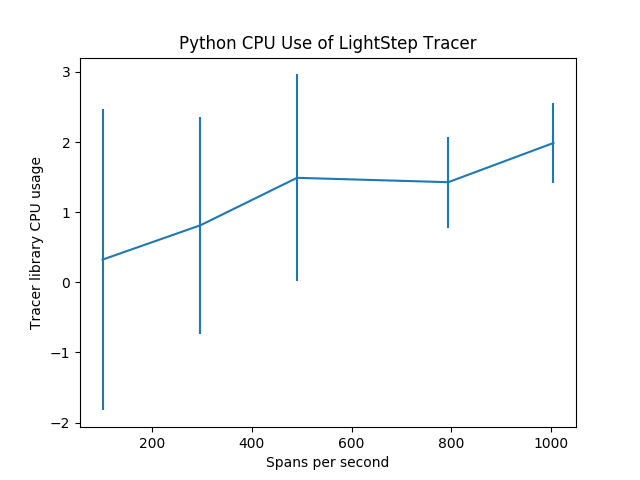
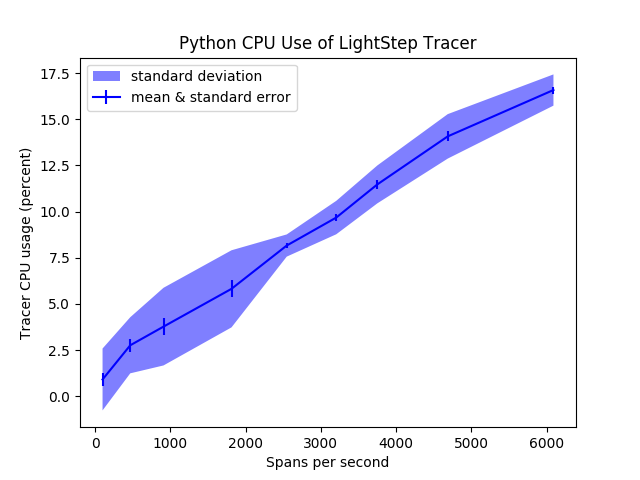
add documentation; improve analysis

diff --git a/README.md b/README.md
@@ -1,162 +1,49 @@
-# CI
+# LightStep Benchmarks
 
-lightstep-benchmarks tests the [python tracer](https://github.com/lightstep/lightstep-tracer-python) and [python cpp tracer](https://github.com/lightstep/lightstep-tracer-cpp) in two ways:
+Time for a brief overview of the system. The test suite is made up of three distinct parts. The **mock satellites** simulate real LightStep satellites under different conditions, a separate **client** is written to test each LightStep Tracer, and the **controller** orchestrates the tests.
 
-1. Regression tests are run automatically each time code is pushed.
-2. Performance graphs can generated if you manually approve the jobs to run in CircleCI. More info on that [here](https://circleci.com/docs/2.0/workflows/#holding-a-workflow-for-a-manual-approval).
+## Setup
 
-## Performance Graphs
+This setup has only been tested on OS X and Linux (Ubuntu).
 
-Performance graphs are fairly expensive to generate, and don't have a simple pass / fail mechanism. For these reasons they aren't generated each time code is pushed automatically. They are only generated when the job "approve_make_graphs" is manually approved in CircleCI.
+- `git clone https://github.com/lightstep/lightstep-benchmarks.git`
+- Install Python 3.7 or higher and pip
 
-TODO: more info on the specific graphs which can be generated here
+Now, from the lightstep-benchmarks directory:
 
-## Regression Tests
+- Install development dependencies: `python3 -m pip install -r requirements-dev.txt`
+- Install [Google Protobuf](https://github.com/protocolbuffers/protobuf/releases)
+- Generate Python Protobuf files from .proto files: `./scripts/generate_proto.sh`
 
-Regression tests are automatically run on the python and python cpp tracers each time code is pushed. The tests check the following:
+## Getting Started
 
-- Running a tracer for 100s (emitting 500 spans per second) shouldn't use more than twice as much memory as running a tracer for 5s.
-- The tracer shouldn't drop any spans if we're just sending 300 spans per second.
-- A test program which generates 500 spans per second is calibrated to run at 70% CPU using a NoOp tracer. The same program shouldn't exceed 80% cpu usage when a LightStep tracer is used.
-- The LightStep tracer should be able to send 3000 spans per second before the tracer (not the whole program) consumes 10% CPU.
+Let's begin by benchmarking the LightStep Python Tracer, since you already have Python installed. We won't worry about setting up mock satellites for the Tracer to send spans to yet. First, make sure you don't have any programs bound to ports 8023 or 8360-8367.
 
-You can also run the regression tests manually from the command-line. First, make sure that you have setup the development environment (see this section). To test the pure python tracer: `pytest --client_name python regression_tests.py`. To test the cpp python tracer: `pytest --client_name python regression_tests.py`.
-
-# Development
-
-Time for a brief overview of the system. The test suite is made up of three distinct parts. The **mock satellites** simulate real LightStep satellites under different conditions, the **clients** test LightStep's tracers and are implemented in various languages, and the **controller** orchestrates the tests.
-
-## Setting up the Environment
-
-[steps to setup the development environment]
-
-## How to Use the Benchmark API
-
-The Benchmark API is best illustrated with this code snippet:
+Paste this code in a file in the lightstep-benchmarks directory:
 
 ```python
-with Controller('[client name]') as c:
-  with MockSatelliteGroup('[typical|slow_succeed|slow_fail]') as sats:
-    result = c.benchmark(
-      trace=True,
-      satellites=sats,
-      spans_per_second=100,
-      runtime=10)
+from benchmark.controller import Controller
 
-    # These are available no matter what.
-    print(f'The test had CPU for {result.program_time} seconds')
-    print(f'The test took {result.clock_time} seconds to run')
-    print(f'{result.spans_sent} spans were generated during the test.')
-    print(f'Percent CPU used, sampled each second: {result.cpu_list}')
-    print(f'Bytes memory used, sampled each second: {result.memory_list}')
-    print(f'When the test ended its memory footprint was {result.memory} bytes')
+with Controller('python', cpu_usage=.7) as controller:
+  print(controller.benchmark(
+    trace=True,
+    spans_per_second=100,
+    runtime=10
+  ))
 
-    # These are only available if a MockSatelliteGroup object is passed to
-    # the controller via the satellites keyword.
-    print(f'{result.spans_received} spans were received by the mock satellites.')
-    print(f'{result.dropped_spans} spans were dropped.')
+# > controller.Results object:
+# >  95.3 spans / sec
+# >  72.39% CPU usage
+# >  100.0% spans dropped (out of 499 sent)
+# >  took 10.2s
 ```
 
-Notice that the `Controller`'s constructor needs to be passed the name of a client. These client names are the keys in the `benchmark.controller.client_args` dictionary. This dictionary holds CLI args which tell the Controller how to start different clients.
+The string 'python' passed to `Controller`'s constructor tells this controller that it will be benchmarking the Python Tracer. The controller will benchmark the Python Tracer by measuring the performance of a sample program, called the Python Client Program, which is instrumented with OpenTelemetry. The `cpu_usage=.7` keyword argument tells the controller to calibrate the Python client program to use 70% of a CPU core _when a NoOp tracer is running_.
 
-A `MockSatelliteGroup` can be started in different modes: 'typical', 'slow_success', and 'slow_fail.' 'typical' Should be used unless you know what you're doing.
+On line 4, the `benchmark` method runs a test using the same client program. Since `trace=True`, the real python LightStep tracer will be used instead of a NoOp tracer. Since a real tracer is turned on, which does more than a NoOp tracer, we should expect this test to use more than 70% CPU. The other two keyword arguments specify that the client program should run for about 10 seconds and generate about 100 spans per second. The `benchmark` method returns a `Result` object, which is printed (see sample output in comments). As we predicted, using a LightStep tracer in place of a NoOp tracer caused the Python Client to use more CPU. As expected, The program took around ten seconds to run and send about 100 spans per second. Because we did not setup any mock satellites for the Tracer to report to, 100% of generated spans were dropped.
 
-# Controller
+## Further Reading
 
-When a controller is first initialized, it will:
-
-1.  Start a server which listens on port 8024. This server will communicate with clients and assign them work to do.
-2.  Start a client which will immediately make a GET request to localhost:8024/control asking for work.
-3.  Determine the behavior of the client when tracing is turned off. We will try and find:
-
-- The nanoseconds to sleep per unit of work which leads to 70% CPU use. The controller will vary sleep per work using P control until the CPU use is within 1/2 percent of 70%.
-- The units of work the client completes per second (which should be mostly independent of how many spans per second we are sending).
-
-4.  Start up 8 mock satellites listening on ports 8360 - 8367. Mock satellites can be started with different flags, but will usually be started in 'typical' mode where their response times are typically about 1ms.
-
-## Adding a New Client
-
-Check out `benchmark.controller.client_args`, and you'll find that there are two clients which can
-
-```python
-# get instructions from controller
-c = http_get("localhost:8024/control")
-sleep_debt = 0
-
-if c['Traced']:
-  tracer = make_real_tracer()
-else:
-  tracer = make_mock_tracer()
-
-for i in range(c['Repeat']):
-  with tracer.start_active_span('TestSpan') as scope:
-    work(c['Work'])
-
-  # since sleep commands aren't too accurate, we save up our sleep and
-  # do it all at once in a longer chunk for better accuracy
-  sleep_debt += c['Sleep']
-  if sleep_debt > c['SleepInterval']:
-    sleep_debt -= c['SleepInterval']
-    sleep(command['SleepInterval'])
-
-# send the results of the test to the controller
-http_get('localhost:8024/result', params=[spans sent, cpu use during test, test time, etc...])
-```
-
-## Garbage Collection
-
-We have observed that in a 200 second test where 200 spans / second were sent, python runs garbage collection 49 times. The test is sufficiently long the cost of garbage collection is going to remain roughly constant across tests.
-
-## Wire Format
-
-```python
-{
-  'Trace': bool,
-  'Repeat': int, # how many spans to send total
-  'Work': int, # how many units of work to do / span
-  'Sleep': int, # in nanoseconds
-  'SleepInterval': int, # in nanoseconds
-  'Exit': bool,
-  'NoFlush': bool, # whether or not to call flush on tracer
-  'MemoryList': list<int>, # memory footprint in bytes, taken every second
-  'CPUList': list<float>, # cpu usage as decimal, taken every second
-  }
-```
-
-When clients have completed the work requested in the command, they will respond with a GET to http://localhost:8023/result if the work tool 12.1 seconds to complete.
-
-They will need to pass `ProgramTime`, `ClockTime`, and `SpansSent` key-value pairs in the query string of this get request.
-
-## Nuances
-
-Don't include flush time in the measurement of CPU usage.
-
-# Ports
-
-8023 will be the standard port for the controller to run on.
-8012 - 8020 will be the standard ports for mock satellites to run on. Satellites will prefer earlier numbers, so tracers which can target only one satellite should target 8012.
-
-```
-kill `ps aux | grep mock_satellite.py | tr -s ' ' | cut -d " " -f 2 | tr '\n' ' '`
-```
-
-# Notes
-
-up buffer size
-increase reporting frequency
-
-100ms reporting frequency
-10000 spans (LS meta, trace assembler)
-50000 spans (for public)
-
-# Next Steps
-
-- container / resource api / etc. --
-  - make the clients leaner
-- make a more intensive benchmarking suite on GCP
-
-- envoy proxy (what would it take to add)
-  - why is it hard?
-  - duplicate sends -- same span received twice?
-
-**why did we choose what we chose**
+- [Benchmarking in LightStep's CI Pipeline](https://github.com/lightstep/lightstep-benchmarks/blob/master/docs/ci_integration.md)
+- [How to Benchmark a New Tracer](https://github.com/lightstep/lightstep-benchmarks/blob/master/docs/adding_clients.md)
+- [Benchmarking API Guide](https://github.com/lightstep/lightstep-benchmarks/blob/master/docs/api.md)

diff --git a/docs/api.md b/docs/api.md
@@ -1,0 +1,59 @@
+# API
+
+The Benchmark API is best illustrated with this code snippet:
+
+```python
+with Controller('[python|python-cpp]') as c:
+  with MockSatelliteGroup('[typical|slow_succeed|slow_fail]') as sats:
+    result = c.benchmark(
+      trace=True,
+      satellites=sats,
+      spans_per_second=100,
+      runtime=10,
+      no_timeout=False,
+      )
+
+    # These are available no matter what.
+    print(f'The test had CPU for {result.program_time} seconds')
+    print(f'The test took {result.clock_time} seconds to run')
+    print(f'{result.spans_sent} spans were generated during the test.')
+    print(f'Percent CPU used, sampled each second: {result.cpu_list}')
+    print(f'Bytes memory used, sampled each second: {result.memory_list}')
+
+    # These are only available if a MockSatelliteGroup object is passed to
+    # the controller via the satellites keyword.
+    print(f'{result.spans_received} spans were received by the mock satellites.')
+    print(f'{result.dropped_spans} spans were dropped.')
+```
+
+Notice that the `Controller`'s constructor needs to be passed the name of a client. The 'python' and 'python-cpp' clients have already been written for you. A `MockSatelliteGroup` can be started in different modes: 'typical', 'slow*success', and 'slow_fail.' 'typical' Should be used unless you read the code and know what you're doing. Since `no_timeout=False`, there will be a timeout if the test doesn't complete in `2 * runtime` seconds.
+
+If `no_timeout=True`, there is never a timeout. Since we passed a `MockSatelliteGroup` object to `benchmark`, the `Result.spans_received` and `Result.dropped_spans` will be accurate, which was not the case in our "Getting Started" example. Keep in mind that a mock satellite group can be reused across many calls to `Controller.benchmark`.
+
+For more detailed information about the `Controller` object, see [benchmark/controller.py](https://github.com/lightstep/lightstep-benchmarks/blob/master/benchmark/controller.py). To learn more about the `MockSatelliteGroup` object, see [benchmark/satellite.py](https://github.com/lightstep/lightstep-benchmarks/blob/master/benchmark/satellite.py). These files both have docstrings which detail the public API in depth.
+
+## Logging
+
+Logging is done using [Python's logging library](https://docs.python.org/3.7/library/logging.html). Logs are written to lightstep-benchmarks/logs/benchmark.log and verbose logs are written to lightstep-benchmarks/logs/benchmark_verbose.log. Warnings and errors are printed to the console by default.
+
+## Next Steps
+
+**Envoy Proxy**: It would be very interesting to monitor the performance a Tracer forwarding spans to an Envoy Proxy instead of a Satellite. We predict that sending traces to a local proxy would reduce the memory and CPU overhead of the Tracer.
+
+**Duplicate Sends**: In some conditions, Tracers might send the same span twice. It would be interesting to perform tests to check how frequently this happens.
+
+**OpenTelemetry**: [OpenTelemetry](https://opentelemetry.io/) is a standardized tracing SDK that LightStep is leading the charge in creating. This benchmarking suite could be extended to profile the next generation of Tracers written in OpenTracing.
+
+## Architecture FAQ
+
+> Why is this written in Python?
+
+Python has a number of very useful modules that were used for this project: PyTest, Psutil, and Matplotlib. Python is also very easy to use cross-platform.
+
+> Why do the Clients communicate with the Controller over HTTP?
+
+HTTP is the simplest cross-platform method of communication. Stdout and other sorts of pipes may differ from one platform to another in annoying ways (line endings, buffering, etc.). Most modern languages also offer simple libraries which can be used to make one-line HTTP requests.
+
+> Why is the benchmarking library bundled with regression tests and graphs into one repo?
+
+It would be nice to have some separation between the benchmarking library and the specific way it is used: generating graphs and running regression tests on LightStep's tracers. This should be a focus of future work.

diff --git a/docs/ci.md b/docs/ci.md
@@ -1,0 +1,50 @@
+# CI
+
+lightstep-benchmarks tests the [LightStep Python Tracer](https://github.com/lightstep/lightstep-tracer-python) and the [LightStep Python / C++ Tracer](https://github.com/lightstep/lightstep-tracer-cpp) in two ways:
+
+1. Regression tests are run automatically on CircleCI each time code is pushed.
+2. Performance graphs can be generated on CircleCI if you manually approve the jobs to run. More info on that [here](https://circleci.com/docs/2.0/workflows/#holding-a-workflow-for-a-manual-approval).
+
+## Performance Graphs
+
+Performance graphs are fairly expensive to generate, and don't have a simple pass / fail mechanism. For these reasons they aren't generated each time code is pushed automatically. They are only generated when the job "approve_make_graphs" is manually approved in CircleCI.
+
+### Unreliable Satellite Graphs
+
+These graphs display information about how the tracer's memory footprint is impacted when satellites disconnecting and reconnecting from tracers. Four distinct test are run during which tracers report fifty spans per second for ninety seconds. Results are displayed in four distinct graphs:
+
+- **NoOp Test**: Memory use of the NoOp tracer is plotted.
+- **LightStep Tracer Test**: Memory use of the LightStep tracer is plotted.
+- **Satellite Disconnect Test**: Memory use of the LightStep tracer is plotted. All mock satellites are shutdown 30 seconds into the test, indicated by a red line in the plot.
+- **Satellite Reconnect Test**: Memory use of the LightStep tracer is plotted. All mock satellites are shutdown 30 seconds into the test, then started again 60 seconds into the test.
+
+![Unreliable Satellite Graphs](./python_satellite_disconnect.png "Unreliable Satellite Graphs")
+
+### Memory Graph
+
+This graph provides insight into how the tracer's memory footprint grows over time when spans are sent at different rates. Memory footprint is plotted over a fifty second test. Trials are run for 100, 500, 1000, and 2000 spans per second.
+
+![Memory Graph](./python_runtime_vs_memory.png "Memory Graph")
+
+### CPU Graphs
+
+These graphs provide insight into how the much CPU the LightStep tracer library uses under different conditions (varying spans per second). The different span rates, a baseline CPU usage is determined by using a NoOp tracer. A similar measurement is made using a LightStep tracer. The difference in CPU usage between the NoOp tracer and the LightStep tracer is the CPU usage of the LightStep tracer.
+
+![CPU Usage Graph](./python_sps_vs_cpu.png "CPU Usage Graph")
+
+### Dropped Graph
+
+At some point, tracers will not be able to send all of the spans generated by instrumented code and will be forced to drop spans. This graphs displays the results of tests where the LightStep tracer was forced to send increasingly more spans to determine at what point spans are dropped.
+
+![Dropped Spans Graph](./python_sps_vs_dropped.png)
+
+## Regression Tests
+
+Regression tests are automatically run on the python and python cpp tracers each time code is pushed. The tests check the following:
+
+- Running a tracer for 100s (emitting 500 spans per second) shouldn't use more than twice as much memory as running a tracer for 5s.
+- The tracer shouldn't drop any spans if we're just sending 300 spans per second.
+- A test program which generates 500 spans per second is calibrated to run at 70% CPU using a NoOp tracer. The same program shouldn't exceed 80% cpu usage when a LightStep tracer is used.
+- The LightStep tracer should be able to send 3000 spans per second before the tracer (not the whole program) consumes 10% CPU.
+
+You can also run the regression tests manually from the command-line. First, make sure that you have setup the development environment (see this section). To test the pure python tracer: `pytest --client_name python regression_tests.py`. To test the cpp python tracer: `pytest --client_name python regression_tests.py`.

diff --git a/docs/adding_clients.md b/docs/adding_clients.md
@@ -1,0 +1,42 @@
+# Adding Clients
+
+This document discusses how to extend lightstep-benchmarks to benchmark tracers other than the Python Tracer or the C++ / Python Tracer.
+
+---
+
+Check out `benchmark.controller.client_args`, and you'll find that there is a client which tests the Python Tracer and a client which tests the Python / C++ Tracer. A client is a stand-alone program that sends tests spans and is instrumented with a Tracer. If you want to add a new client, you'll need to:
+
+1. Add an entry to `benchmark.controller.client_args` which contains command-line args to start your client.
+2. Write a client program and add it to the clients folder
+
+Writing a client is extremely simple; just follow the pseudocode skeleton below. It is important that the client generates `c['Repeat']` spans and that `work(n)` does n floating point multiplications (or something similarly fast).
+
+```python
+# The client makes an HTTP get request to the control server which
+# lightstep-benchmarks is running. The response body is a json formatted
+# control message which contains all of the parameters of the test.
+c = requests.get("localhost:8024/control").json()
+sleep_debt = 0
+
+if c['Traced']:
+  tracer = make_real_tracer(port=8360, host='localhost')
+else:
+  tracer = make_mock_tracer()
+
+for i in range(c['Repeat']):
+  with tracer.start_active_span('TestSpan') as scope:
+    work(c['Work'])
+
+  # Since sleep commands aren't too accurate, we save up our sleep and
+  # do it all at once in a longer chunk for better accuracy
+  sleep_debt += c['Sleep']
+  if sleep_debt > c['SleepInterval']:
+    sleep_debt -= c['SleepInterval']
+    sleep(command['SleepInterval'])
+
+exit()
+```
+
+## Tracer Configuration
+
+Most of LightStep's tracers ship with very conservative defaults: they don't buffer too many spans and don't send spans to satellites very frequently. However, in production environments such conservative defaults are rarely used. Internally at LightStep, we report spans to collectors every 100ms and buffer anywhere from 10,000 to 50,000 spans. When writing a new client, it is a good idea to use these more aggressive defaults which are used in production.
